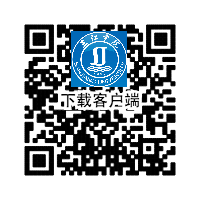
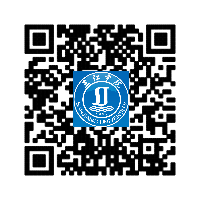
图片无法显示

Changed region(s): [[0.3, 0.15, 0.72, 0.66]]

diff --git a/config/initializers/assets.rb b/config/initializers/assets.rb
@@ -9,6 +9,7 @@ Rails.application.config.assets.version = '1.0'
 # Precompile additional assets.
 # application.js, application.css, and all non-JS/CSS in app/assets folder are already added.
 Rails.application.config.assets.precompile += %w( 
+	liantu.png
   bootstrap.js metisMenu.js
   sb-admin-2.js app.css
   bootstrap.css metisMenu.css

diff --git a/app/controllers/push_controller.rb b/app/controllers/push_controller.rb
@@ -27,7 +27,9 @@ class PushController < ApplicationController
     rescue Exception => e
       ErrorMailer.error_maile(e,nil).deliver
     end
-    render :text => "hello"
+    flash[:notice] = "success"
+    # render :text => "hello"
+    render action: "save_phone"
   end
 
   def down_andorid_app
